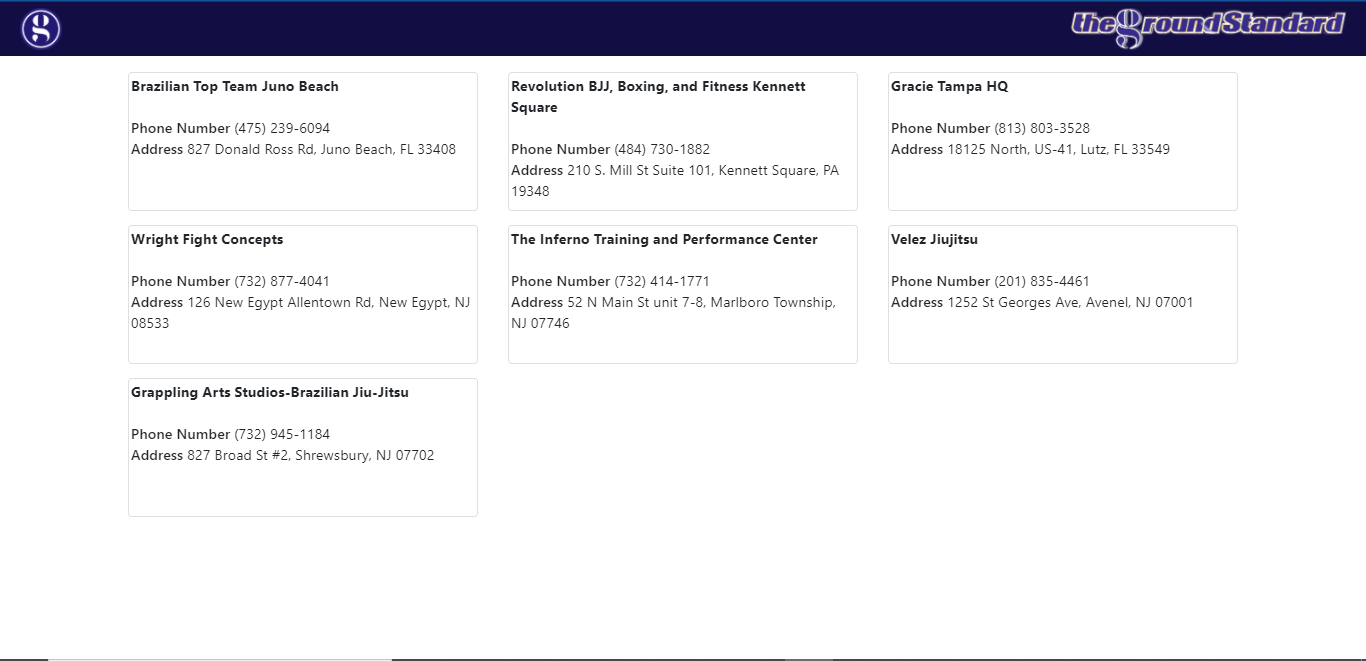
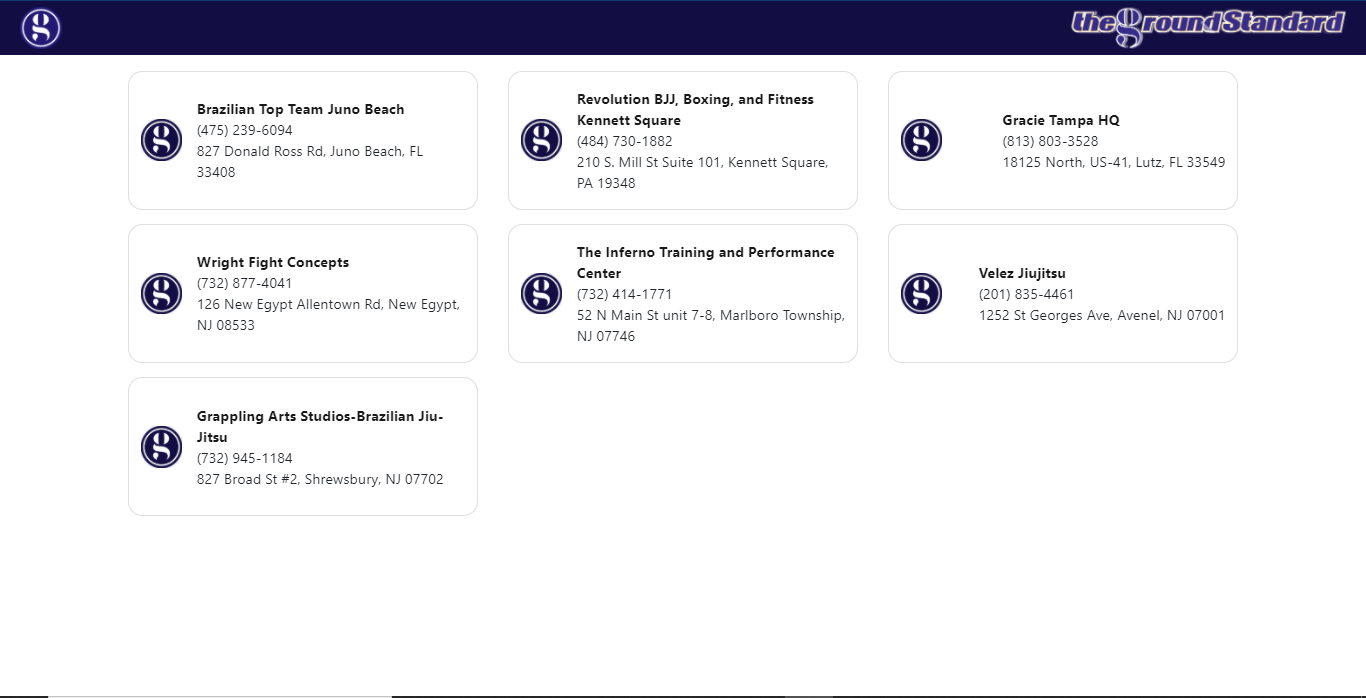
Custom cards and data updates

diff --git a/patners.html b/patners.html
@@ -46,7 +46,7 @@
             data.forEach(bus => {
                 patners.innerHTML += "<div class='col-md-4'><div class='card'>"+
                     "<div><img src='images/gsn.logostamp_blue.png' class='img'></div><div>"+
-                    "<a class='link' href='#'><b>"+bus.name +"</b></a><br>"+
+                    "<a class='link' href='"+bus.link+"'><b>"+bus.name +"</b></a><br>"+
                     "<p class='item'><span></span> "+bus.phone_number+"</p>"+
                     "<p class='item'><span></span>"+bus.address+"</p></div>"+
                     "</div></div>";
